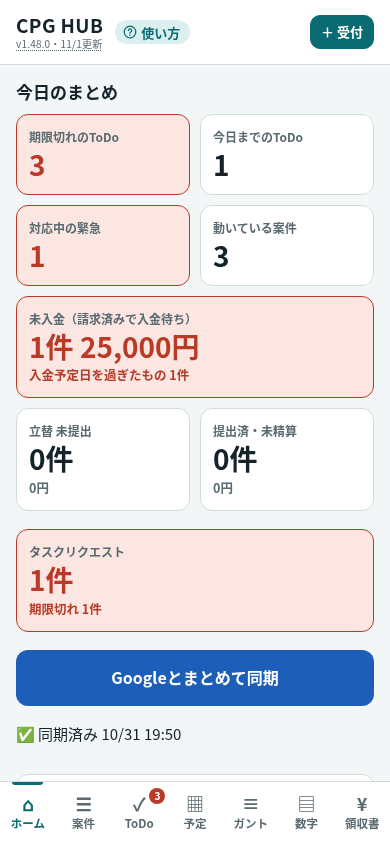
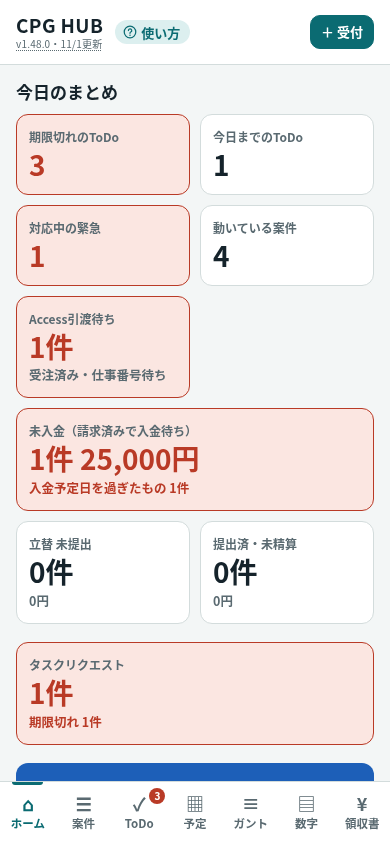
Add Access handoff waiting tile and matching case filter

diff --git a/index.html b/index.html
@@ -749,11 +749,12 @@ function todoRow(t,expanded=false){
     (c?'<button class="btn sm" type="button" data-open="'+h(c.id)+'">案件を開く</button>':t.nav?'<button class="btn sm" type="button" data-nav="'+t.nav+'">領収書を開く</button>':(manualTodoEditable(t)?'<button class="btn sm" type="button" data-mtdedit="'+h(t.id)+'">編集</button>'+(!t.done&&!t.cancelled?'<button class="btn sm" type="button" data-mtdcancel="'+h(t.id)+'">取消</button>':''):'')+(t.done?'<span class="chip">完了済み</span>':'<button class="btn sm" type="button" data-done="'+h(t.id)+'">完了</button>'))+'</div></div>';
 }
 
+const accessWaiting=c=>c.stage==="won"&&!c.cancelledAt&&!String(c.jobNo??"").trim();
 function vHome(){
   const todos=genTodos(), t=todayS(), all=allCases(), tdAll=todos.concat(roTodos()); /* 社長の管理端末では、読み込んだ社員の分も含めた会社全体の数字 */
   const over=tdAll.filter(x=>x.due&&x.due<t), todayT=tdAll.filter(x=>x.due===t);
   const urgent=all.filter(c=>c.type==="kinkyu"&&(c.stage==="new"||c.stage==="site"));
-  const active=all.filter(c=>!ended(c));
+  const active=all.filter(c=>!ended(c)), waiting=all.filter(accessWaiting);
   const rp=rPending(), rsub=rSubmitted(), rnotes=rcptNotices();
   const un=all.filter(unpaid), unSum=un.reduce((s,c)=>s+remainOf(c),0), unLate=un.filter(c=>lateDays(c)).length;
   const ord=todos.filter(x=>x.order), ordOver=ord.filter(x=>x.due&&x.due<t).length;
@@ -764,6 +765,7 @@ function vHome(){
     '<button type="button" class="tile" data-nav="todo"><span class="k">今日までのToDo</span><span class="v">'+todayT.length+'</span></button>'+
     '<button type="button" class="tile'+(urgent.length?" alert":"")+'" data-nav="cases" data-type="kinkyu"><span class="k">対応中の緊急</span><span class="v">'+urgent.length+'</span></button>'+
     '<button type="button" class="tile" data-nav="cases"><span class="k">動いている案件</span><span class="v">'+active.length+'</span></button>'+
+    '<button type="button" id="home-access" class="tile'+(waiting.length?' alert':'')+'" data-nav="cases" data-handoff="1"><span class="k">Access引渡待ち</span><span class="v">'+waiting.length+'件</span><span class="s">受注済み・仕事番号待ち</span></button>'+
     '<button type="button" class="tile wide'+(unLate?" alert":"")+'" data-nav="stats" data-jump="stats-unpaid"><span class="k">未入金（請求済みで入金待ち）</span><span class="v num">'+un.length+'件 '+yen(unSum)+'</span><span class="s">'+(unLate?'<b>入金予定日を過ぎたもの '+unLate+'件</b>':'遅れはありません')+'</span></button>'+
     '<button type="button" class="tile'+(rnotes.length?" alert":"")+'" data-nav="rcpt"><span class="k">立替 未提出</span><span class="v num">'+rp.length+'件</span><span class="s num">'+yen(rSum(rp))+'</span></button>'+
     '<button type="button" class="tile" data-nav="rcpt" data-rtab2="claims"><span class="k">提出済・未精算</span><span class="v num">'+rsub.length+'件</span><span class="s num">'+yen(rSum(rsub))+'</span></button>'+
@@ -794,7 +796,7 @@ function vCompany(){
 function vCases(){
   const q=ui.q.trim();
   const cf=ui.cCo||"all";
-  let list=allCases().filter(c=>(ui.showEnded||!ended(c))&&(ui.type==="all"||c.type===ui.type)&&(!ui.payOnly||unpaid(c))&&(cf==="all"||(cf==="none"?!COMPANIES.includes(c.company):c.company===cf)));
+  let list=allCases().filter(c=>(!ui.handoffOnly||accessWaiting(c))&&(ui.showEnded||!ended(c))&&(ui.type==="all"||c.type===ui.type)&&(!ui.payOnly||unpaid(c))&&(cf==="all"||(cf==="none"?!COMPANIES.includes(c.company):c.company===cf)));
   const noCo=DB.cases.filter(c=>!ended(c)&&!exCase(c)&&!COMPANIES.includes(c.company)).length;
   if(q)list=list.filter(c=>[c.id,c.client,c.property,c.room,c.addr,c.note,c.jobNo,c.symptom].join(" ").includes(q));
   const order={new:0,site:1,quoted:2,hold:3,won:4,handed:5,working:5,built:6,billed:7,paid:8,lost:9};
@@ -809,6 +811,7 @@ function vCases(){
     (noCo?'<p class="note" style="margin:0">会社が未設定の案件が '+noCo+'件あります。案件を開いて「会社」の <b>選ぶ</b> で CP・CPY・AT を選んでください。</p>':'')+
     '<div class="seg" role="group" aria-label="依頼の種類">'+[["all","すべて"],...Object.entries(TYPES).map(([k,v])=>[k,v.label])].map(([k,l])=>'<button type="button" data-type="'+k+'" aria-pressed="'+(ui.type===k)+'">'+l+'</button>').join("")+'</div>'+
     '<div class="row note"><label class="row"><input type="checkbox" id="payOnly"'+(ui.payOnly?" checked":"")+'> 入金待ちだけ</label><label class="row"><input type="checkbox" id="showEnded"'+(ui.showEnded?" checked":"")+'> 失注・受注後取消・入金済も表示</label></div>'+
+    '<label class="row note"><input type="checkbox" id="handoffOnly"'+(ui.handoffOnly?' checked':'')+'> Access引渡待ちだけ（受注済み・仕事番号待ち）</label>'+
     (ui.payOnly?acctPanel():'')+
     '<div class="list">'+(list.map(caseCard).join("")||'<div class="empty">該当する案件はありません</div>')+'</div></section>';
 }
@@ -2782,7 +2785,7 @@ document.addEventListener("click",e=>{
   if(el.dataset.act==="mtdclose"){manualTodoClose();return}
   if(el.dataset.act==="mtdbackup"||el.dataset.act==="mtddraft"){manualTodoDownload(el.dataset.act==="mtddraft");return}
   if(el.dataset.open){go("detail",{caseId:el.dataset.open});return}
-  if(el.dataset.nav){const ex={csv:false};if(el.closest("#home-summary")&&el.dataset.nav==="cases"){ex.q="";ex.cCo="all";ex.showEnded=false;}if(el.dataset.sharedReceipts)ex.rScope="shared";if(el.dataset.type)ex.type=el.dataset.type;else if(el.dataset.nav==="cases"&&el.closest(".tile"))ex.type="all";if(el.dataset.nav==="cases")ex.payOnly=!!el.dataset.pay;if(el.dataset.nav==="rcpt"&&el.closest(".tile")){ex.rTab=el.dataset.rtab2||"list";ex.rScope="own";}go(el.dataset.nav,ex);if(el.dataset.jump&&ui.view===el.dataset.nav)document.getElementById(el.dataset.jump)?.scrollIntoView();return}
+  if(el.dataset.nav){const ex={csv:false};if(el.closest("#home-summary")&&el.dataset.nav==="cases"){ex.q="";ex.cCo="all";ex.showEnded=false;}if(el.dataset.sharedReceipts)ex.rScope="shared";if(el.dataset.type)ex.type=el.dataset.type;else if(el.dataset.nav==="cases"&&el.closest(".tile"))ex.type="all";if(el.dataset.nav==="cases"){ex.payOnly=!!el.dataset.pay;ex.handoffOnly=!!el.dataset.handoff;}if(el.dataset.nav==="rcpt"&&el.closest(".tile")){ex.rTab=el.dataset.rtab2||"list";ex.rScope="own";}go(el.dataset.nav,ex);if(el.dataset.jump&&ui.view===el.dataset.nav)document.getElementById(el.dataset.jump)?.scrollIntoView();return}
   if(el.dataset.rscope){ui.rScope=el.dataset.rscope;rClearDl();render();return;}
   if(el.dataset.rtab){ui.rTab=el.dataset.rtab;rClearDl();ui.rcCancel=null;render();return}
   if(el.dataset.ropen){rFormClear();go("rform",{rId:el.dataset.ropen});return}
@@ -3016,6 +3019,7 @@ document.addEventListener("change",e=>{
   if(t.id==="r_case"){receiptCaseChanged(t.value);return;}
   if(t.id==="r_method"||t.id==="r_co"){const card=val("r_method")==="法人カード",w=document.getElementById("r_cardWrap"),sel=document.getElementById("r_card");if(w)w.hidden=!card;
     if(sel){const ks=RS().cards.filter(k=>k.company===val("r_co"));sel.innerHTML=ks.map(k=>'<option value="'+h(k.id)+'">'+h(k.name)+'</option>').join("")||'<option value="">この会社のカードがありません</option>'}return}
+  if(t.id==="handoffOnly"){ui.handoffOnly=t.checked;render();return}
   if(t.id==="payOnly"){ui.payOnly=t.checked;render();return}
   if(t.dataset.item!=null&&c){const it=c.items[Number(t.dataset.item)];if(it){it[t.dataset.f]=t.dataset.f==="amount"?(t.value===""?"":Number(t.value)):t.value;save();refreshItemTotals(c)}return}
   if(t.id==="d_billing"&&c){c.billingTenant=t.value;save();return}

diff --git a/manual-admin.html b/manual-admin.html
@@ -167,7 +167,7 @@ th{color:var(--muted);font-size:13px}
 <p class="meta"><a href="./manual.html">‹ 社員向けの使い方マニュアル</a>　<a href="./">‹ CPG HUB に戻る</a></p>
 <section><h2>v1.47.6（2026年10月31日）失注理由の共有</h2><p>失注の理由（価格・他社に決定・時期が合わない・連絡なし・その他）が社員の同期で共有され、社長・全社・GMの「数字」に反映されます。理由を入力し直す必要はありません。空欄や知らない値を「その他」に置き換えることはありません。</p><p>使うすべての社員端末と社長・全社・GM端末で古いCPG HUBのタブを閉じ、開き直してv1.47.6以降を確認してください。データ削除や再インストールは不要です。まず社員が「Googleとまとめて同期」、次に社長側も同期して社員の記録を読み込み直します。旧版の社員端末や開いたままの旧タブで同期すると、共有の失注理由列が消えます。その場合は理由を保持している社員の新版端末から再同期し、社長側で再読込みします。社員の端末の元の理由は今回の修正では変更しません。</p></section>
 <section><h2>v1.47.7（2026年10月31日）ホームの同期結果</h2><p>ホームで自分の端末の同期が最後まで全て成功すると「✅ 同期済み 月/日 時:分」の1行になります。押すと詳しい結果が開き、もう一度押すと閉じます。時刻は日本時間です。エラー・一部失敗・同期途中の終了・今日まだ同期していない警告・未送信の完了報告・対応が必要な注意は隠しません。v1.47.7では同期ボタンの位置と大きさを維持しました（v1.48.0ではホームの順番を変更）。予定や設定画面の詳しい同期結果もそのまま表示します。社長・全社・GMでは、社員の今日未同期や記録の読込失敗だけでは自分の結果を開いたままにしません。社員ごとの注意は「会社の動き」に残り、社員の記録の読込失敗行も折りたたみの外に表示します。自分の端末のエラー・未完了・今日未同期・未送信報告・保存の不確実は、引き続き折りたたみません。</p></section>
-<section><h2>v1.48.0（2026年11月1日）ホームのまとめタイル</h2><p>ホームは「今日のまとめ」のタイル、タスクリクエスト件数、同期ボタンと結果、会社の動きのタイルの順です。0件でも表示します。期限切れ・緊急・入金遅れ・同期の注意は赤で示します。各タイルを押すと詳しいページへ移動します。</p><p>「対応中の緊急」は案件を緊急対応だけに絞り、受付からの経過時間を確認できます。「動いている案件」は案件一覧、「未入金」は数字の未入金、「立替 未提出」「提出済・未精算」は領収書を開きます。「今日までのToDo」の件数は従来どおり当日期限分です。リクエストや各集計の計算は変えません。</p><p>社長・全社・GMには「会社の動き」のタイルが出ます。社員数、今日未同期・読めなかった社員の人数を確認し、押すと会社の動きのページを開きます。「ホームへ戻る」で戻ります。下のメニューには追加しません。会社選択・GMの会社範囲は従来どおりです。社員別の立替表は領収書ページの先頭へ移しました。会社の動きで選んだ会社範囲（GMは担当会社）を引き継ぎます。</p><p>同期の成功結果の開閉はv1.47.7と同じです。自分のエラー・未完了・今日未同期・未送信報告・保存未確認はホームに残ります。会社側の注意で自分の成功結果の折りたたみを止めません。注意が多い場合はホームを下へスクロールしてください。</p></section>
+<section><h2>v1.48.0（2026年11月1日）ホームのまとめタイル</h2><p>ホームは「今日のまとめ」のタイル、タスクリクエスト件数、同期ボタンと結果、会社の動きのタイルの順です。0件でも表示します。期限切れ・緊急・入金遅れ・同期の注意は赤で示します。各タイルを押すと詳しいページへ移動します。</p><p>「対応中の緊急」は案件を緊急対応だけに絞り、受付からの経過時間を確認できます。「動いている案件」は案件一覧、「未入金」は数字の未入金、「立替 未提出」「提出済・未精算」は領収書を開きます。「Access引渡待ち」は受注済みで、取消記録がなく、仕事番号が空欄の案件です。1件以上は赤く表示し、押すと同じ条件の案件だけを開きます。一覧の「Access引渡待ちだけ」を外すと絞り込みを解除できます。0件でもタイルは残ります。「今日までのToDo」の件数は従来どおり当日期限分です。リクエストや各集計の計算は変えません。</p><p>社長・全社・GMには「会社の動き」のタイルが出ます。社員数、今日未同期・読めなかった社員の人数を確認し、押すと会社の動きのページを開きます。「ホームへ戻る」で戻ります。下のメニューには追加しません。会社選択・GMの会社範囲は従来どおりです。社員別の立替表は領収書ページの先頭へ移しました。会社の動きで選んだ会社範囲（GMは担当会社）を引き継ぎます。</p><p>同期の成功結果の開閉はv1.47.7と同じです。自分のエラー・未完了・今日未同期・未送信報告・保存未確認はホームに残ります。会社側の注意で自分の成功結果の折りたたみを止めません。注意が多い場合はホームを下へスクロールしてください。</p></section>
 </main>
 </body>
 </html>

diff --git a/manual.html b/manual.html
@@ -399,7 +399,7 @@ th{color:var(--muted);font-size:13px}
 </section>
 
 <p class="meta"><a href="./">‹ CPG HUB に戻る</a></p>
-<section><h2>v1.48.0（2026年11月1日）ホームのまとめタイル</h2><p>ホームは「今日のまとめ」のタイル、タスクリクエスト件数、同期ボタンと結果、会社の動きのタイルの順です。0件でも表示します。期限切れ・緊急・入金遅れ・同期の注意は赤で示します。各タイルを押すと詳しいページへ移動します。</p><p>「対応中の緊急」は案件を緊急対応だけに絞り、受付からの経過時間を確認できます。「動いている案件」は案件一覧、「未入金」は数字の未入金、「立替 未提出」「提出済・未精算」は領収書を開きます。「今日までのToDo」の件数は従来どおり当日期限分です。リクエストや各集計の計算は変えません。</p><p>社長・全社・GMには「会社の動き」のタイルが出ます。社員数、今日未同期・読めなかった社員の人数を確認し、押すと会社の動きのページを開きます。「ホームへ戻る」で戻ります。下のメニューには追加しません。会社選択・GMの会社範囲は従来どおりです。社員別の立替表は領収書ページの先頭へ移しました。会社の動きで選んだ会社範囲（GMは担当会社）を引き継ぎます。</p><p>同期の成功結果の開閉はv1.47.7と同じです。自分のエラー・未完了・今日未同期・未送信報告・保存未確認はホームに残ります。会社側の注意で自分の成功結果の折りたたみを止めません。注意が多い場合はホームを下へスクロールしてください。</p></section>
+<section><h2>v1.48.0（2026年11月1日）ホームのまとめタイル</h2><p>ホームは「今日のまとめ」のタイル、タスクリクエスト件数、同期ボタンと結果、会社の動きのタイルの順です。0件でも表示します。期限切れ・緊急・入金遅れ・同期の注意は赤で示します。各タイルを押すと詳しいページへ移動します。</p><p>「対応中の緊急」は案件を緊急対応だけに絞り、受付からの経過時間を確認できます。「動いている案件」は案件一覧、「未入金」は数字の未入金、「立替 未提出」「提出済・未精算」は領収書を開きます。「Access引渡待ち」は受注済みで、取消記録がなく、仕事番号が空欄の案件です。1件以上は赤く表示し、押すと同じ条件の案件だけを開きます。一覧の「Access引渡待ちだけ」を外すと絞り込みを解除できます。0件でもタイルは残ります。「今日までのToDo」の件数は従来どおり当日期限分です。リクエストや各集計の計算は変えません。</p><p>社長・全社・GMには「会社の動き」のタイルが出ます。社員数、今日未同期・読めなかった社員の人数を確認し、押すと会社の動きのページを開きます。「ホームへ戻る」で戻ります。下のメニューには追加しません。会社選択・GMの会社範囲は従来どおりです。社員別の立替表は領収書ページの先頭へ移しました。会社の動きで選んだ会社範囲（GMは担当会社）を引き継ぎます。</p><p>同期の成功結果の開閉はv1.47.7と同じです。自分のエラー・未完了・今日未同期・未送信報告・保存未確認はホームに残ります。会社側の注意で自分の成功結果の折りたたみを止めません。注意が多い場合はホームを下へスクロールしてください。</p></section>
 </main>
 </body>
 </html>

diff --git a/docs/home-tiles.md b/docs/home-tiles.md
@@ -20,4 +20,12 @@
 
 ## 開発時の検証記録
 
-node tests/home-tiles-browser.cjs：9シナリオ群。全tests/*.cjs（31本）を個別実行。ローカル試験とGitHub checksは区別する。会社ページへ移した内容に合わせた既存テストの導線変更のみで、業務内容のassertionは削除しない。旧プレビュー画像は過去版の検証記録として保持する。新画像はhome-接頭辞に限定。
+node tests/home-tiles-browser.cjs：10シナリオ群。全tests/*.cjs（31本）を個別実行。ローカル試験とGitHub checksは区別する。会社ページへ移した内容に合わせた既存テストの導線変更のみで、業務内容のassertionは削除しない。旧プレビュー画像は過去版の検証記録として保持する。新画像はhome-接頭辞に限定。
+
+## Access引渡待ちの境界
+
+「Access引渡待ち」は受注済み・取消なし・仕事番号空欄の案件を数え、1件以上は赤く表示します。タップ先も同じ条件に絞り、一覧のチェックを外すと解除できます。0件でも表示します。
+
+空白だけの仕事番号は空欄として扱います。取消・失注・引渡済み・施工中・入金済み・見積段階・仕事番号ありの除外と、共有閲覧案件を検証。既存CSVと自動ToDoの判定は変更しません。仕事番号があるのに受注段階のまま等の矛盾データでは、従来の段階だけの判定と件数が異なり得ます。データの自動補正は行いません。
+
+Accessタイル追加後の合成画像では、390pxの同期欄・会社タイル、820×900の会社タイル下部はスクロールで確認します。タイル追加による縦方向の変化で、内容は下へスクロールして読めます。

diff --git a/docs/引継ぎ.md b/docs/引継ぎ.md
@@ -13,6 +13,8 @@
 
 ## v1.48.0 ホームのまとめタイル
 
+- 「Access引渡待ち」は受注済み・取消なし・仕事番号空欄の案件を数え、1件以上は赤く表示します。タップ先も同じ条件に絞り、一覧のチェックを外すと解除できます。0件でも表示します。
+
 - 担当：コーディー／ナミ。基準main f72de4c491545ab1752fbcd1ce3a85ab28215a2c。PR66・v1.47.7は公開済み。
 - ホームはまとめタイル→リクエスト件数→同期→会社タイル。会社詳細は専用ページ、社員別立替は領収書へ。保存・同期・権限・計算式は維持。
 - 専務相当は全社＋gmCo=CP。CP限定GMと区別。合成Chromium検証で物理端末確認は含まない。
